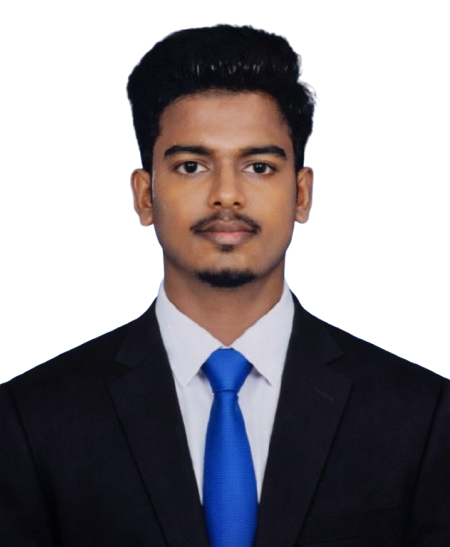
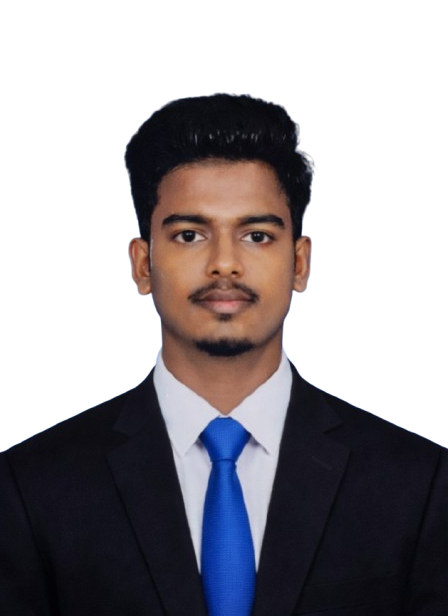
Update portfolio files

Changed region(s): [[0.0, 0.0311, 1.0, 0.9634]]

diff --git a/index.html b/index.html
@@ -8,6 +8,7 @@
   <meta name="description"
     content="Portfolio of Sunilkumar B, AI &amp; ML Engineer specializing in RAG systems, computer vision, and production ML pipelines.">
   <script src="https://cdnjs.cloudflare.com/ajax/libs/gsap/3.12.5/gsap.min.js"></script>
+  <script src="https://cdnjs.cloudflare.com/ajax/libs/gsap/3.12.5/ScrollTrigger.min.js"></script>
   <link rel="preconnect" href="https://fonts.googleapis.com">
   <link rel="preconnect" href="https://fonts.gstatic.com" crossorigin>
   <link href="https://fonts.googleapis.com/css2?family=Roboto+Flex:opsz,wdth,wght@8..144,25..151,100..1000&display=swap"
@@ -74,6 +75,7 @@
 
     html {
       scroll-behavior: smooth;
+      font-size: 17px;
     }
 
     @media (prefers-reduced-motion: reduce) {
@@ -96,7 +98,7 @@
       background: var(--bg);
       color: var(--text);
       font-family: var(--font-body);
-      font-size: 16px;
+      font-size: 17px;
       line-height: 1.6;
       -webkit-font-smoothing: antialiased;
     }
@@ -319,7 +321,6 @@
       /* Monochrome treatment: grayscale + slightly lifted contrast
      so the portrait reads like a print/scan, matching the console
      aesthetic. Swap the <img src> to replace the photo. */
-      filter: grayscale(1) contrast(1.08) brightness(0.98);
     }
 
     .hero-photo .scan-line {
@@ -542,7 +543,26 @@
     .timeline {
       position: relative;
       padding-left: 28px;
-      border-left: 1px solid var(--border);
+    }
+
+    .timeline::before {
+      content: "";
+      position: absolute;
+      left: 0;
+      top: 0;
+      bottom: 0;
+      width: 1px;
+      background: var(--border);
+    }
+
+    .timeline-progress {
+      position: absolute;
+      left: 0;
+      top: 0;
+      width: 1px;
+      background: var(--amber);
+      height: 0%;
+      z-index: 1;
     }
 
     .timeline-item {
@@ -557,13 +577,21 @@
     .timeline-item::before {
       content: "";
       position: absolute;
-      left: -33.5px;
+      left: -33px;
       top: 4px;
-      width: 10px;
-      height: 10px;
+      width: 11px;
+      height: 11px;
       border-radius: 50%;
       background: var(--bg);
-      border: 2px solid var(--amber);
+      border: 2px solid var(--border);
+      transition: all 0.4s ease;
+      z-index: 2;
+    }
+
+    .timeline-item.active::before {
+      border-color: var(--teal);
+      background: var(--teal);
+      box-shadow: 0 0 8px rgba(94, 234, 212, 0.4);
     }
 
     .timeline-item .when {
@@ -1395,9 +1423,20 @@
         right: -12px;
       }
     }
+
     /* Custom Cursor Styles */
     @media (hover: hover) and (pointer: fine) {
-      body, a, button, input, textarea, select, .project-card, .suggest-btn, .chat-fab, .chat-close-drawer {
+
+      body,
+      a,
+      button,
+      input,
+      textarea,
+      select,
+      .project-card,
+      .suggest-btn,
+      .chat-fab,
+      .chat-close-drawer {
         cursor: none !important;
       }
 
@@ -1450,6 +1489,7 @@
     }
 
     @media (pointer: coarse) {
+
       .custom-cursor,
       .custom-cursor-follower {
         display: none !important;
@@ -1484,7 +1524,7 @@
     <header class="site-header">
       <div class="container nav">
         <a class="nav-brand" href="#top">
-          <span class="dot" aria-hidden="true"></span> sunilkumar<span style="color:var(--text-faint)">.b</span>
+          <span class="dot" aria-hidden="true"></span> Sunilkumar<span style="color:var(--text-faint)">.b</span>
         </a>
         <button class="nav-toggle" aria-expanded="false" aria-controls="nav-links" id="navToggle">menu</button>
         <ul class="nav-links" id="nav-links">
@@ -1493,7 +1533,7 @@
           <li><a href="#Projects">Projects</a></li>
           <li><a href="#Skills">Skills</a></li>
           <li><a href="#Education">Education</a></li>
-          <li><a href="#Contact">Contact</a></li>
+          <li><a href="#Contact">Make an Connection</a></li>
         </ul>
       </div>
     </header>
@@ -1508,9 +1548,7 @@
               <img src="profile.png" id="profile-open"
                 alt="Black-and-white portrait of Sunilkumar B, wearing a formal suit and tie, facing the camera."
                 width="220" height="220" loading="eager">
-              <img src="profile_closed_eyes.png" id="profile-closed"
-                alt="Closed eyes overlay"
-                width="220" height="220" loading="lazy" style="position: absolute; top: 0; left: 0; opacity: 0; transition: opacity 0.12s ease; pointer-events: none;">
+
               <div class="scan-line" aria-hidden="true"></div>
             </div>
           </div>
@@ -1583,6 +1621,7 @@
           </div>
 
           <div class="timeline reveal">
+            <div class="timeline-progress"></div>
             <div class="timeline-item">
               <div class="when mono">May 2026 — Present</div>
               <h3>Founder</h3>
@@ -1590,7 +1629,11 @@
                 ORBIS — Freelancing Agency
                 <a href="https://orbis.com" target="_blank" rel="noopener noreferrer" class="visit-org-link">
                   Visit Website
-                  <svg width="10" height="10" viewBox="0 0 24 24" fill="none" stroke="currentColor" stroke-width="2.5" stroke-linecap="round" stroke-linejoin="round"><line x1="7" y1="17" x2="17" y2="7"></line><polyline points="7 7 17 7 17 17"></polyline></svg>
+                  <svg width="10" height="10" viewBox="0 0 24 24" fill="none" stroke="currentColor" stroke-width="2.5"
+                    stroke-linecap="round" stroke-linejoin="round">
+                    <line x1="7" y1="17" x2="17" y2="7"></line>
+                    <polyline points="7 7 17 7 17 17"></polyline>
+                  </svg>
                 </a>
               </div>
               <ul>
@@ -1884,7 +1927,7 @@
         <div class="container">
           <div class="section-head">
             <span class="section-index mono">07</span>
-            <h2>Contact</h2>
+            <h2>Make an Connection</h2>
             <span class="section-status">deploy · ready</span>
           </div>
 
@@ -2702,7 +2745,7 @@
 
           // Set initial visibility on first move
           var initialized = false;
-          
+
           document.addEventListener('mousemove', function (e) {
             if (!initialized) {
               cursor.style.opacity = 1;
@@ -2758,31 +2801,49 @@
           addHoverListeners();
 
           // Re-bind hover listeners periodically to handle dynamic elements (like chat history messages)
-          document.addEventListener('click', function() {
+          document.addEventListener('click', function () {
             setTimeout(addHoverListeners, 50);
           });
         }
       })();
 
       // =========================================================
-      // PROFILE BLINK ANIMATION
+      // EXPERIENCE TIMELINE ANIMATION
       // =========================================================
       (function () {
-        var closedImg = document.getElementById('profile-closed');
-        if (!closedImg) return;
+        if (typeof ScrollTrigger === 'undefined') return;
+        gsap.registerPlugin(ScrollTrigger);
 
-        function triggerBlink() {
-          closedImg.style.opacity = '1';
-          setTimeout(function () {
-            closedImg.style.opacity = '0';
-          }, 240);
+        var timeline = document.querySelector('.timeline');
+        var progressLine = document.querySelector('.timeline-progress');
+        var items = document.querySelectorAll('.timeline-item');
 
-          var nextDelay = 2500 + Math.random() * 4500;
-          setTimeout(triggerBlink, nextDelay);
-        }
+        if (!timeline || !progressLine || items.length === 0) return;
 
-        setTimeout(triggerBlink, 3000);
+        // Animate the rail line height based on scroll
+        gsap.to(progressLine, {
+          height: "100%",
+          ease: "none",
+          scrollTrigger: {
+            trigger: timeline,
+            start: "top center",
+            end: "bottom center",
+            scrub: true
+          }
+        });
+
+        // Toggle active class on checkpoints
+        items.forEach(function (item) {
+          ScrollTrigger.create({
+            trigger: item,
+            start: "top center",
+            onEnter: function () { item.classList.add('active'); },
+            onLeaveBack: function () { item.classList.remove('active'); }
+          });
+        });
       })();
+
+
 
     })();
   </script>
